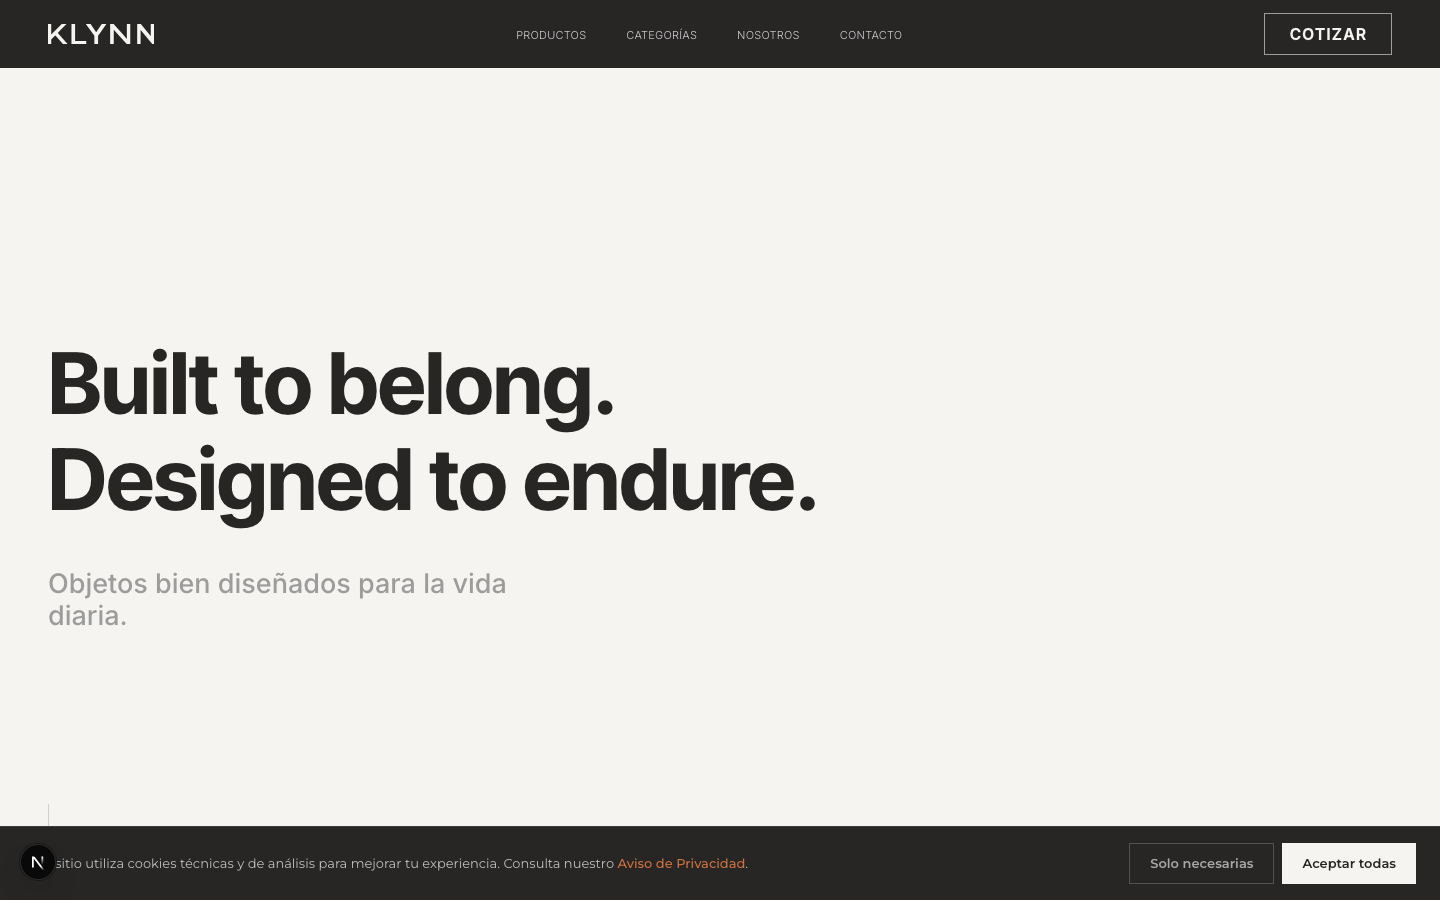
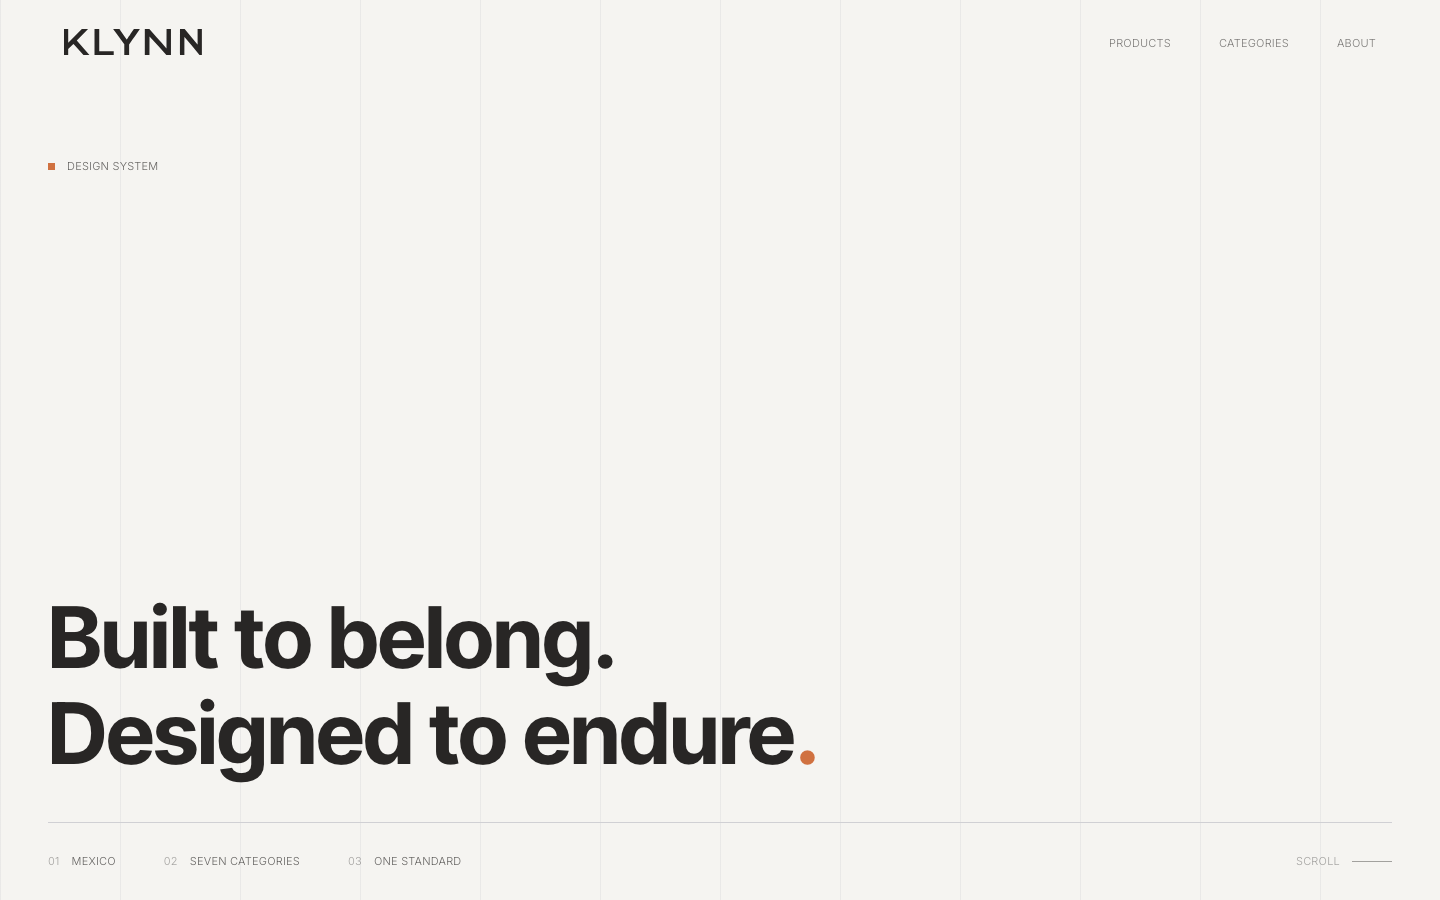
design(hero): rediseno de direccion de arte del primer fold
El fold anterior era una frase flotando en un vacio indiferenciado. Correcto
y olvidable. Este lo reemplaza por una composicion estructurada.

Cambios de composicion:
- Reticula de construccion visible (12 columnas, hairline al 32%). En diseno
  industrial la reticula ES el mensaje: declara que hay un sistema detras.
  Es ademas el motivo de la lamina 11 del manual, cuyo mockup lleva fondo de
  papel milimetrado.
- Composicion anclada en tres zonas (indice / titular / banda de spec) en
  lugar de un bloque centrado por defecto. El blanco pasa a enmarcar.
- Titular de 85px a ~116px, tracking -0.022em, interlineado 0.98. Tensa el
  ancho en vez de dejar medio lienzo sin funcion.
- Banda de especificacion micro-tipografica (registro Braun / B&O). Aporta
  densidad y da el tercer punto de lectura que faltaba.

Navbar:
- Transparente sobre el fold, grafito al salir de el. La franja opaca
  invertia la jerarquia: lo primero que veia el ojo era lo menos importante.
- CTA comercial retirado del fold: una peticion de presupuesto contradice el
  registro de marca.
- Wordmark de 20px a 26px.

Color:
- Terracota entra al fold como firma: punto final del claim e indice. Antes
  su unica aparicion en toda la pagina era el enlace del aviso de cookies.
- Textos secundarios de gris medio a grafito con opacidad: el gris daba
  ~2.6:1 contra el minimo AA de 4.5:1.

Idioma: el fold habla una sola lengua (ingles, capa de marca); la operacion
[…]

diff --git a/src/components/klynn/Navbar.tsx b/src/components/klynn/Navbar.tsx
@@ -1,41 +1,64 @@
 'use client'
 
-import { useState } from 'react'
+import { useEffect, useState } from 'react'
 import Link from 'next/link'
 import { Menu, X } from 'lucide-react'
 import Wordmark from './Wordmark'
 
 /**
- * Navbar KLYNN — barra grafito con wordmark reversed, según la lámina 11
- * (Landing Page Mockups) del Master Design Manual v1.0.
+ * Navbar KLYNN.
  *
- * Fase 1 no tiene carrito: el mockup lo muestra porque contempla el eCommerce
- * de Fase 2. Su lugar lo ocupa el CTA comercial.
+ * Sobre el fold es transparente: la marca flota, no se enmarca. Una franja
+ * opaca cruzando el hero invierte la jerarquía — lo primero que ve el ojo
+ * pasa a ser lo menos importante de la página.
+ *
+ * Al abandonar el fold adopta fondo grafito, porque a partir de ahí compite
+ * con contenido y necesita separarse.
+ *
+ * El CTA comercial no vive aquí: en el primer fold una petición de
+ * presupuesto contradice el registro de marca. Aparece más abajo.
+ *
+ * Idioma: la capa de marca habla inglés; la operación, español.
  */
 
 const LINKS = [
-  { href: '/productos',  label: 'Productos' },
-  { href: '/#categorias', label: 'Categorías' },
-  { href: '/#nosotros',   label: 'Nosotros' },
-  { href: '/#contacto',   label: 'Contacto' },
+  { href: '/productos', label: 'Products' },
+  { href: '/#categorias', label: 'Categories' },
+  { href: '/#filosofia', label: 'About' },
 ]
 
 export default function Navbar() {
+  const [scrolled, setScrolled] = useState(false)
   const [open, setOpen] = useState(false)
 
+  useEffect(() => {
+    const onScroll = () => setScrolled(window.scrollY > 24)
+    onScroll()
+    window.addEventListener('scroll', onScroll, { passive: true })
+    return () => window.removeEventListener('scroll', onScroll)
+  }, [])
+
+  const solid = scrolled || open
+
   return (
-    <header className="fixed inset-x-0 top-0 z-50 bg-[var(--color-k-graphite)] text-[var(--color-k-white)]">
-      <nav className="mx-auto flex h-[68px] max-w-[1440px] items-center justify-between px-6 lg:px-12">
-        <Link href="/" aria-label="KLYNN — inicio" className="flex items-center">
-          <Wordmark height={20} />
+    <header
+      className={`fixed inset-x-0 top-0 z-50 transition-colors duration-500 ${
+        solid
+          ? 'bg-[var(--color-k-graphite)] text-[var(--color-k-white)]'
+          : 'bg-transparent text-[var(--color-k-graphite)]'
+      }`}
+    >
+      <nav className="mx-auto flex h-[84px] max-w-[1440px] items-center justify-between px-8 lg:px-16">
+        <Link href="/" aria-label="KLYNN" className="flex items-center">
+          <Wordmark height={26} />
         </Link>
 
-        <ul className="hidden items-center gap-10 lg:flex">
+        <ul className="hidden items-center gap-12 lg:flex">
           {LINKS.map(l => (
             <li key={l.href}>
               <Link
                 href={l.href}
-                className="k-caption text-[0.75rem] uppercase tracking-[0.14em] text-[var(--color-k-gray-light)] transition-colors hover:text-[var(--color-k-white)]"
+                className="k-caption text-[0.6875rem] uppercase tracking-[0.2em] opacity-60 transition-opacity duration-300 hover:opacity-100"
               >
                 {l.label}
               </Link>
@@ -43,49 +66,31 @@ export default function Navbar() {
           ))}
         </ul>
 
-        <div className="flex items-center gap-4">
-          <Link
-            href="/#contacto"
-            className="k-button hidden border border-[var(--color-k-gray-mid)] px-6 py-3 text-[0.75rem] transition-colors hover:border-[var(--color-k-white)] hover:bg-[var(--color-k-white)] hover:text-[var(--color-k-graphite)] lg:inline-block"
-          >
-            Cotizar
-          </Link>
-
-          <button
-            type="button"
-            onClick={() => setOpen(v => !v)}
-            aria-label={open ? 'Cerrar menú' : 'Abrir menú'}
-            aria-expanded={open}
-            className="lg:hidden"
-          >
-            {open ? <X size={22} /> : <Menu size={22} />}
-          </button>
-        </div>
+        <button
+          type="button"
+          onClick={() => setOpen(v => !v)}
+          aria-label={open ? 'Close menu' : 'Open menu'}
+          aria-expanded={open}
+          className="lg:hidden"
+        >
+          {open ? <X size={20} /> : <Menu size={20} />}
+        </button>
       </nav>
 
       {open && (
-        <div className="border-t border-[color-mix(in_srgb,var(--color-k-gray-mid)_35%,transparent)] lg:hidden">
-          <ul className="mx-auto max-w-[1440px] px-6 py-4">
+        <div className="lg:hidden">
+          <ul className="mx-auto max-w-[1440px] px-8 pb-6">
             {LINKS.map(l => (
               <li key={l.href}>
                 <Link
                   href={l.href}
                   onClick={() => setOpen(false)}
-                  className="k-body block py-3 uppercase tracking-[0.12em] text-[var(--color-k-gray-light)]"
+                  className="k-caption block py-3 text-[0.75rem] uppercase tracking-[0.2em] opacity-70"
                 >
                   {l.label}
                 </Link>
               </li>
             ))}
-            <li className="pt-3">
-              <Link
-                href="/#contacto"
-                onClick={() => setOpen(false)}
-                className="k-button block bg-[var(--color-k-white)] px-6 py-4 text-center text-[var(--color-k-graphite)]"
-              >
-                Cotizar
-              </Link>
-            </li>
           </ul>
         </div>
       )}

diff --git a/src/components/klynn/Hero.tsx b/src/components/klynn/Hero.tsx
@@ -1,41 +1,96 @@
-import { Container, Display, Section } from '@/design-system/primitives'
+import { Container, Section } from '@/design-system/primitives'
 
 /**
  * Hero KLYNN.
  *
- * El primer fold vende la marca, no el catálogo. No nombra industria, no
- * enumera productos, no argumenta ventajas: sostiene una idea y deja
- * respirar. Los productos aparecen más abajo, cuando ya se sabe quién habla.
+ * Decisiones de dirección de arte:
  *
- * Registro visual: lámina 11 del Master Design Manual — blanco cálido,
- * grafito, tipografía de display grande, silencio alrededor.
+ * 1. RETÍCULA VISIBLE. En diseño industrial la retícula es el mensaje: dice
+ *    que existe un sistema detrás. Sustituye al vacío indiferenciado por
+ *    estructura medida. Es además el motivo que aparece en la lámina 11 del
+ *    manual, donde el mockup lleva fondo de papel milimetrado.
  *
- * El claim en inglés es el oficial de la marca (pie de todas las láminas del
- * manual). Es el único texto que no se traduce: funciona como firma.
+ * 2. COMPOSICIÓN ANCLADA, NO CENTRADA. El bloque no flota: se apoya sobre
+ *    una regla horizontal en el tercio inferior. Arriba queda aire —que ahora
+ *    enmarca en vez de sobrar—, abajo una banda de datos. El blanco pasa a
+ *    ser decisión y no residuo.
+ *
+ * 3. TERRACOTA COMO FIRMA, NO COMO DECORACIÓN. Dos apariciones mínimas y
+ *    exactas: el punto final del claim y el índice. Un color propietario se
+ *    reconoce por precisión, no por cantidad.
+ *
+ * 4. BANDA DE ESPECIFICACIÓN. El registro micro-tipográfico que usan Braun y
+ *    Bang & Olufsen en sus fichas técnicas. Aporta densidad y precisión sin
+ *    añadir ruido, y da al ojo el tercer punto de lectura que faltaba.
+ *
+ * 5. UNA SOLA LENGUA. El fold es capa de marca y habla inglés; la operación
+ *    habla español más abajo. Una regla explícita en lugar de una mezcla.
  */
+
+const SPEC = [
+  { i: '01', label: 'Mexico' },
+  { i: '02', label: 'Seven categories' },
+  { i: '03', label: 'One standard' },
+]
 
 export default function Hero() {
   return (
-    <Section rhythm="hero" tone="light" className="relative pt-[68px]">
-      <Container>
-        <div className="py-24 lg:py-32">
-          <Display className="max-w-[18ch]">
-            Built to belong.
-            <br />
-            Designed to endure.
-          </Display>
+    <Section rhythm="hero" tone="light" className="relative overflow-hidden">
+      {/* Retícula de construcción — 12 columnas, hairline casi inaudible */}
+      <div
+        aria-hidden
+        className="pointer-events-none absolute inset-0 opacity-[0.32]"
+        style={{
+          backgroundImage:
+            'repeating-linear-gradient(to right, var(--color-k-gray-light) 0 1px, transparent 1px calc(100% / 12))',
+          backgroundSize: '100% 100%',
+        }}
+      />
 
-          <p className="k-h3 mt-10 max-w-[38ch] text-[clamp(1.0625rem,2vw,1.6875rem)] leading-[1.45] text-[var(--color-k-gray-mid)]">
-            Objetos bien diseñados para la vida diaria.
-          </p>
+      <Container className="relative flex h-full flex-col justify-end pb-0">
+        {/* Índice — firma cromática superior */}
+        <div className="mb-auto flex items-center gap-3 pt-40">
+          <span
+            aria-hidden
+            className="h-[7px] w-[7px]"
+            style={{ background: 'var(--color-k-terracotta)' }}
+          />
+          <span className="k-caption uppercase tracking-[0.28em] text-[var(--color-k-graphite)] opacity-70">
+            Design system
+          </span>
+        </div>
+
+        {/* Titular — apoyado sobre la regla */}
+        <h1 className="k-h1 max-w-[20ch] pb-10 text-[clamp(2.75rem,8.4vw,7.25rem)] leading-[0.98] tracking-[-0.022em]">
+          Built to belong.
+          <br />
+          Designed to endure
+          <span style={{ color: 'var(--color-k-terracotta)' }}>.</span>
+        </h1>
+
+        <div className="h-px w-full bg-[var(--color-k-gray-light)]" />
+
+        {/* Banda de especificación */}
+        <div className="flex flex-col gap-6 py-8 sm:flex-row sm:items-center sm:justify-between">
+          <ul className="flex flex-wrap items-center gap-x-12 gap-y-3">
+            {SPEC.map(s => (
+              <li key={s.i} className="flex items-baseline gap-3">
+                <span className="k-caption text-[0.625rem] tracking-[0.2em] text-[var(--color-k-graphite)] opacity-40">
+                  {s.i}
+                </span>
+                <span className="k-caption text-[0.6875rem] uppercase tracking-[0.2em] text-[var(--color-k-graphite)] opacity-70">
+                  {s.label}
+                </span>
+              </li>
+            ))}
+          </ul>
+
+          <span className="k-caption flex items-center gap-3 text-[0.625rem] uppercase tracking-[0.2em] text-[var(--color-k-graphite)] opacity-40">
+            Scroll
+            <span aria-hidden className="block h-px w-10 bg-current" />
+          </span>
         </div>
       </Container>
-
-      {/* Señal de scroll — una línea, sin texto ni icono decorativo */}
-      <span
-        aria-hidden
-        className="absolute bottom-10 left-6 h-14 w-px bg-[var(--color-k-gray-light)] lg:left-12"
-      />
     </Section>
   )
 }

diff --git a/src/components/CookieBanner.tsx b/src/components/CookieBanner.tsx
@@ -13,8 +13,11 @@ export default function CookieBanner() {
   useEffect(() => {
     // One-shot sync from localStorage on mount; setVisible runs at most once
     // so it cannot trigger a render cycle.
+    // `?capture` lo oculta para las capturas de revisión de diseño: es un
+    // elemento legal superpuesto que impide evaluar la composición.
+    const isCapture = new URLSearchParams(window.location.search).has('capture')
     // eslint-disable-next-line react-hooks/set-state-in-effect
-    if (!localStorage.getItem(CONSENT_KEY)) setVisible(true)
+    if (!isCapture && !localStorage.getItem(CONSENT_KEY)) setVisible(true)
   }, [])
 
   function accept(value: CookieConsent) {
@@ -31,9 +34,9 @@ export default function CookieBanner() {
       role="dialog"
       aria-live="polite"
       aria-label="Aviso de cookies"
-      className="fixed bottom-0 inset-x-0 z-50 bg-[var(--color-k-graphite)] border-t border-white/10"
+      className="fixed bottom-4 left-4 right-4 z-50 max-w-[420px] bg-[var(--color-k-graphite)] shadow-[0_8px_40px_rgba(40,38,37,0.18)] sm:bottom-6 sm:left-6 sm:right-auto"
     >
-      <div className="max-w-[1440px] mx-auto px-4 py-2.5 sm:px-6 sm:py-4 flex flex-row items-center gap-3 sm:gap-4">
+      <div className="flex flex-col gap-4 p-5">
         {/* Mobile copy — short enough to keep the legal link visible while
             holding the banner ≤90px. Desktop keeps the full sentence. */}
         <p className="text-[11px] sm:text-[13px] font-normal text-white/70 leading-snug sm:leading-relaxed flex-1">
@@ -61,7 +64,7 @@ export default function CookieBanner() {
         </p>
 
         {/* Buttons — always horizontal so the mobile banner stays compact */}
-        <div className="flex flex-row gap-2 shrink-0">
+        <div className="flex flex-row gap-2">
           <button
             onClick={() => accept('necessary')}
             className="px-3 py-2 sm:px-5 sm:py-2.5 text-[11px] sm:text-[13px] font-semibold text-white/60 border border-white/20 hover:border-white/50 hover:text-white transition-all duration-200 whitespace-nowrap"

diff --git a/next.config.ts b/next.config.ts
@@ -2,6 +2,10 @@ import { withSentryConfig } from '@sentry/nextjs';
 import type { NextConfig } from 'next'
 
 const nextConfig: NextConfig = {
+  // El indicador de desarrollo se superpone a la esquina inferior izquierda,
+  // justo sobre la banda de especificación del hero, y contamina las capturas
+  // de revisión de diseño.
+  devIndicators: false,
   images: {
     formats: ['image/avif', 'image/webp'],
     deviceSizes: [640, 750, 828, 1080, 1200, 1920, 2048, 3840],
